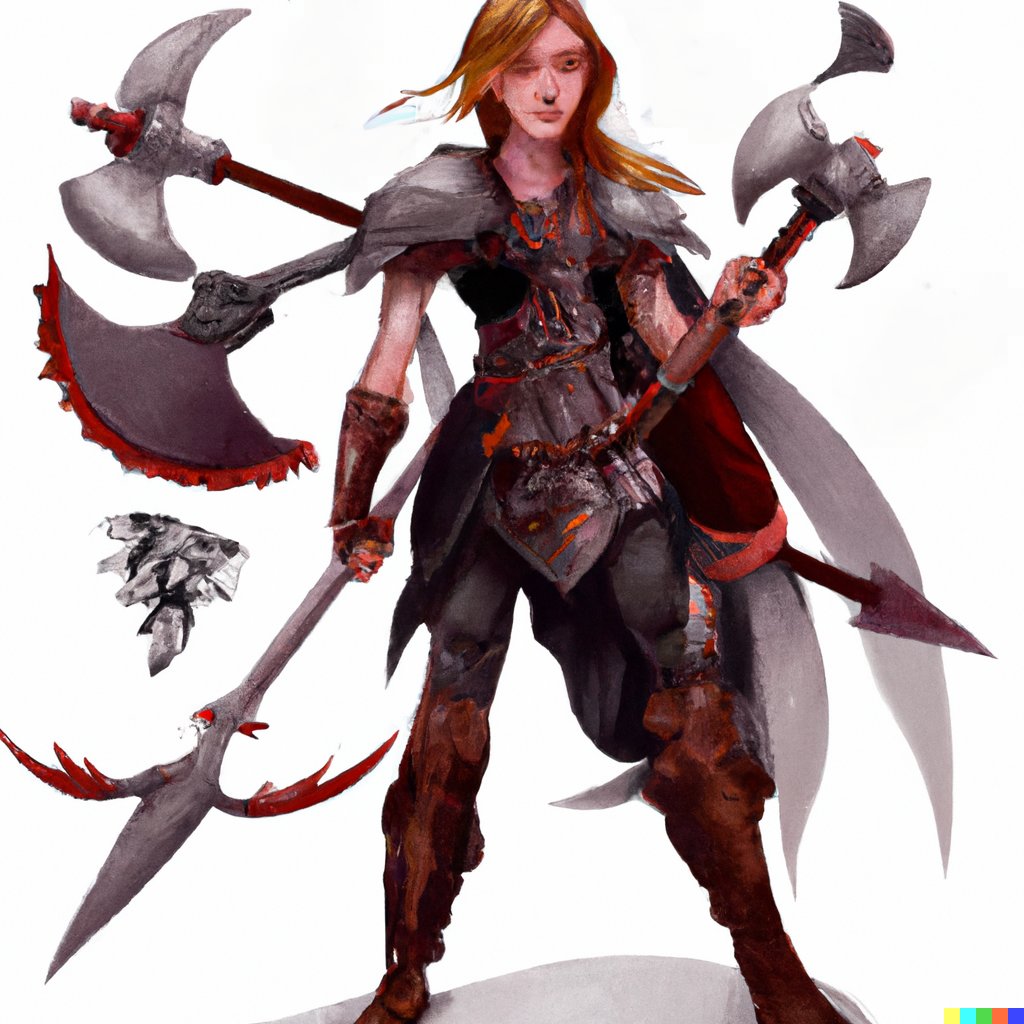
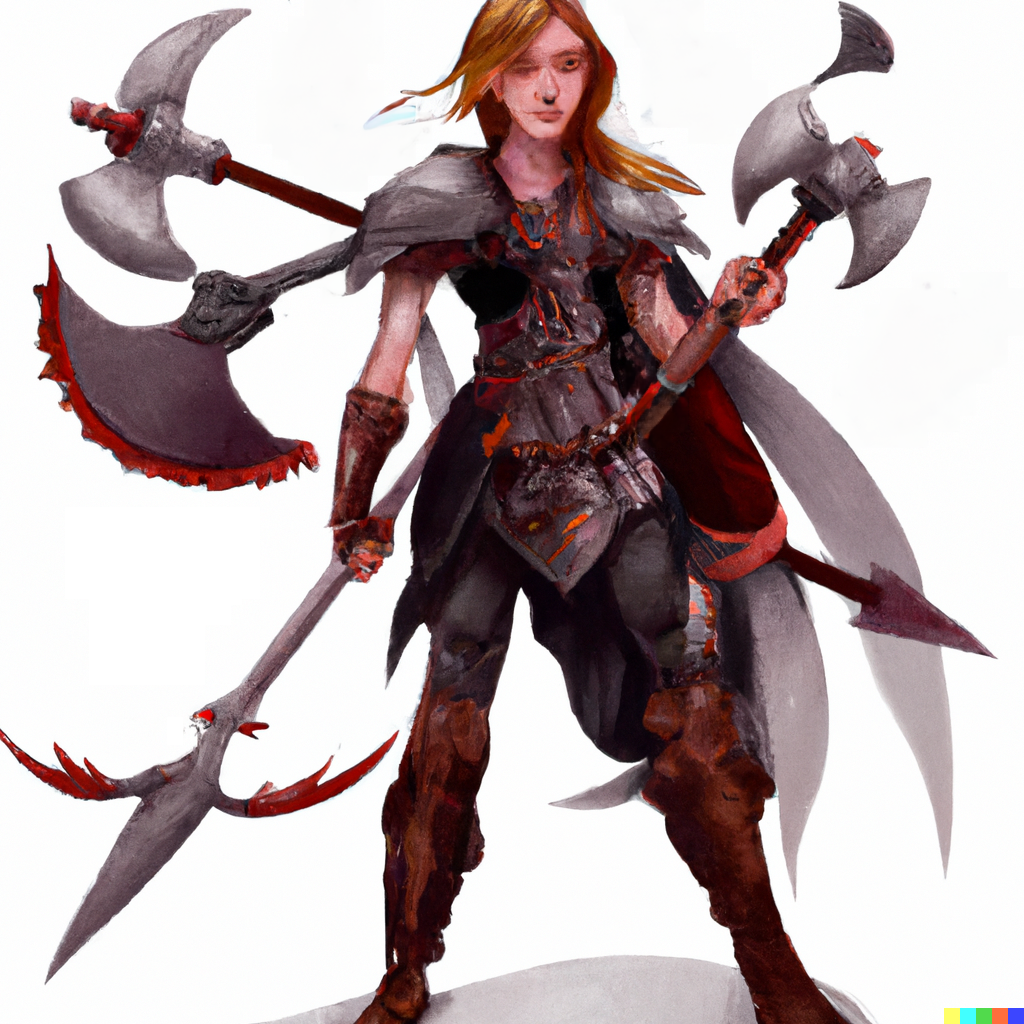
fix html generation

Changed region(s): [[0.0938, 0.5, 0.25, 0.6562]]

diff --git a/typescript/src/mystic_spheres/aquamancy.ts b/typescript/src/mystic_spheres/aquamancy.ts
@@ -464,13 +464,18 @@ export const aquamancy: MysticSphere = {
       effect: `
         You transform your body and equipment into water, allowing you to compress your body or contort yourself into odd shapes.
         This has the following effects:
+
         \\begin{itemize}
+          \\par
           \\item You gain a \\glossterm{swim speed} 10 feet slower than the \\glossterm{base speed} for your size.
             If you already have a swim speed, you gain a \\plus10 foot \\glossterm{magic bonus} to your swim speed.
           \\item You gain a +8 \\glossterm{magic bonus} to the Flexibility skill. In addition, the minimum size you can squeeze down to is reduced to one inch, which can dramatically improve your ability to squeeze through tight spaces.
           \\item You gain a +4 bonus to your defenses when determining whether a \\glossterm{strike} gets a \\glossterm{critical hit} against you instead of a normal hit.
           \\item You ignore \\glossterm{difficult terrain} from all sources except for creature abilities.
         \\end{itemize}
+
+        % There must be text between an itemize block and the end of a mdframed env
+        \\hypertarget{itemizespace}{}
       `,
       rank: 3,
       type: "Attune (deep)",

diff --git a/rust/src/classes/archetype_rank_abilities/druid.rs b/rust/src/classes/archetype_rank_abilities/druid.rs
@@ -88,6 +88,11 @@ pub fn elementalist<'a>() -> Vec<RankAbility<'a>> {
                     You can ask the elements simple questions and understand their responses.
                     Each element has different limitations on its memory and awareness, as described below.
 
+                    Air, earth, and water are only able to give information about what they touch.
+                    This includes the general shapes, sizes, and locations of creatures and objects they interacted with, but not any details about color or subjective appearance.
+                    Fire is also able to give information about anything illuminated by its light, allowing it to report more detailed information like color.
+                    It is still unable to make meaningful subjective judgments like a creature would.
+
                     \begin{itemize}
                         \item Air: Air can remember events up to an hour ago on a very calm day or only a few minutes ago on a windy day.
                             Moving air is aware of events near where it blew through, not necessarily in your current location.
@@ -101,11 +106,8 @@ pub fn elementalist<'a>() -> Vec<RankAbility<'a>> {
                             Moving water is aware of events near where it moved through, not necessarily in your current location.
                     \end{itemize}
 
-                    % Oddly placed? there must be text between an itemize block and the end of a mdframed env
-                    Air, earth, and water are only able to give information about what they touch.
-                    This includes the general shapes, sizes, and locations of creatures and objects they interacted with, but not any details about color or subjective appearance.
-                    Fire is also able to give information about anything illuminated by its light, allowing it to report more detailed information like color.
-                    It is still unable to make meaningful subjective judgments like a creature would.
+                    % There must be text between an itemize block and the end of a mdframed env
+                    \hypertarget{itemizespace}{}
                 \end{sustainability}
             ",
             modifiers: None,
@@ -646,6 +648,8 @@ pub fn wildspeaker<'a>() -> Vec<RankAbility<'a>> {
 
                     Your magical connection to the animal improves its resilience and strength in combat.
                     The animal's statistics use the values below, except that each animal also gains a special ability based on the environment you are in.
+                    Animals are unable to understand complex concepts, so their ability to obey convoluted instructions is limited.
+
                     \begin{itemize}
                         \item Its size category is Medium, and its \glossterm{base speed} is the normal base speed for its size (see \tref{Size Categories}).
                         \item Its \glossterm{fatigue tolerance} is 0, and it cannot use abilities that would cause it to increase its \glossterm{fatigue level}.
@@ -659,8 +663,8 @@ pub fn wildspeaker<'a>() -> Vec<RankAbility<'a>> {
                         \item It automatically shares the benefits of all of your \glossterm{magic bonuses} to hit points, damage resistance, and power.
                     \end{itemize}
 
-                    % Oddly placed? there must be text between an itemize block and the end of a mdframed env
-                    Animals are unable to understand complex concepts, so their ability to obey convoluted instructions is limited.
+                    % There must be text between an itemize block and the end of a mdframed env
+                    \hypertarget{itemizespace}{}
                 \end{attuneability}
 
                 The special ability of the animal that appears depends on your environment, as described below.

diff --git a/rust/src/classes/class.rs b/rust/src/classes/class.rs
@@ -1087,9 +1087,9 @@ impl Class {
         return latex_formatting::latexify(format!(
             "
                 \\newpage
-                \\section<{class_name}>\\label<{class_name}>
+                \\section<{class_name_title}>\\label<{class_name_title}>
 
-                \\includegraphics[width=\\columnwidth]<classes/{class_name}>
+                \\includegraphics[width=\\columnwidth]<classes/{class_name_lower}>
 
                 {description}
 
@@ -1097,7 +1097,7 @@ impl Class {
 
                 \\classbasics<Alignment> {class_alignment}.
 
-                \\classbasics<Archetypes> {class_name}s have the {archetype_names} archetypes.
+                \\classbasics<Archetypes> {class_name_title}s have the {archetype_names} archetypes.
 
                 {basic_class_abilities}
 
@@ -1121,7 +1121,8 @@ impl Class {
             basic_class_abilities = generate_latex_basic_class_abilities(self).trim(),
             description = self.narrative_text(),
             special_class_abilities = self.latex_special_class_abilities().trim(),
-            class_name = titlecase(self.name()),
+            class_name_title = titlecase(self.name()),
+            class_name_lower = self.name(),
             class_alignment = self.alignment(),
             suffix = self.latex_suffix(),
         ));

diff --git a/rust/src/classes/archetype_rank_abilities/ranger.rs b/rust/src/classes/archetype_rank_abilities/ranger.rs
@@ -24,6 +24,8 @@ pub fn beastmaster<'a>() -> Vec<RankAbility<'a>> {
                     Your magical connection to the animal improves its resilience and strength in combat.
                     If any of its statistics are higher than the normal values below, the animal uses its own statistics instead.
                     All other aspects of the animal, such as its speed and natural weapons, are unchanged.
+                    Animals are unable to understand complex concepts, so their ability to obey convoluted instructions is limited.
+
                     % Same as Natural Servant except that it gains more resistance since having the animal die is more problematic
                     \begin{itemize}
                         % TODO: figure out why this is a 2
@@ -38,8 +40,8 @@ pub fn beastmaster<'a>() -> Vec<RankAbility<'a>> {
                         \item It automatically shares the benefits of all of your \glossterm{magic bonuses} to hit points, damage resistance, and power.
                     \end{itemize}
 
-                    % Oddly placed? there must be text between an itemize block and the end of a mdframed env
-                    Animals are unable to understand complex concepts, so their ability to obey convoluted instructions is limited.
+                    % There must be text between an itemize block and the end of a mdframed env
+                    \hypertarget{itemizespace}{}
                 \end{attuneability}
 
             ",

diff --git a/html_book/rise.tex b/html_book/rise.tex
@@ -8,7 +8,7 @@
 
 \setcounter{tocdepth}{1}
 
-\graphicspath{ {../core_book/images/} }
+\graphicspath{ {images/} }
 
 \begin{document}
 This is a rulebook for a new \href{https://en.wikipedia.org/wiki/Tabletop_role-playing_game}{tabletop role-playing game} called Rise.